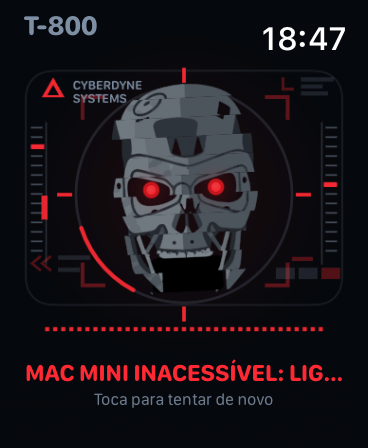
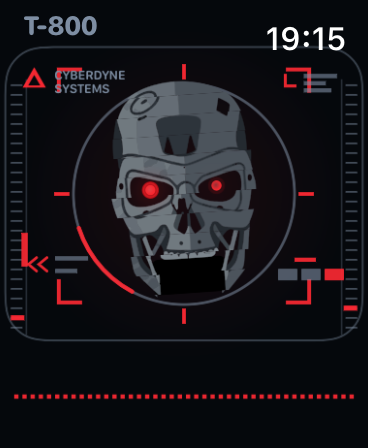
feat(watch): drop the caption and stretch the visor to the edges

diff --git a/apps/watch/WatchPilot/UI/ContentView.swift b/apps/watch/WatchPilot/UI/ContentView.swift
@@ -22,8 +22,8 @@ struct ContentView: View {
             VStack(spacing: 0) {
                 topBar
                 Spacer(minLength: 0)
-                statusBlock
             }
+            .allowsHitTesting(false)
         }
         .frame(maxWidth: .infinity, maxHeight: .infinity)
         // Full-bleed, como o visor da referência: o "T-800" partilha a linha do
@@ -86,7 +86,7 @@ struct ContentView: View {
             GeometryReader { geo in
                 AssistantAvatar(phase: controller.phase, isReduceMotion: reduceMotion)
                     .frame(width: 190, height: 231)
-                    .scaleEffect(geo.size.width / 190)
+                    .scaleEffect(max(geo.size.width / 190, geo.size.height / 231))
                     .frame(width: geo.size.width, height: geo.size.height)
                     .contentShape(Rectangle())
             }
@@ -104,99 +104,6 @@ struct ContentView: View {
         case .answering: return "Abrir a resposta completa"
         case .failed: return "Tentar de novo"
         case .idle: return "Gravar comando de voz"
-        }
-    }
-
-    // MARK: - Copy
-
-    /// A legenda do visor, por cima do scrim escuro no fim do canvas. A resposta
-    /// do hub pode crescer (scroll) sem nunca empurrar nada do sítio.
-    private var statusBlock: some View {
-        ScrollView {
-            VStack(spacing: 1) {
-                Text(controller.phase.headline)
-                    .font(.system(size: 14, weight: .bold, design: .rounded))
-                    .foregroundStyle(headlineColor)
-                    .textCase(isShortStatus ? .uppercase : nil)
-                    .multilineTextAlignment(.center)
-                    .lineLimit(isShortStatus ? 1 : 4)
-                    .minimumScaleFactor(0.85)
-                    .fixedSize(horizontal: false, vertical: true)
-
-                if let spoken = transcriptLine {
-                    Text(spoken)
-                        .font(.system(size: 8.5, design: .rounded))
-                        .foregroundStyle(Palette.muted)
-                        .multilineTextAlignment(.center)
-                        .lineLimit(2)
-                        .fixedSize(horizontal: false, vertical: true)
-                }
-
-                Text(footnote)
-                    .font(.system(size: 8.5, design: .rounded))
-                    .foregroundStyle(Palette.muted.opacity(0.85))
-                    .multilineTextAlignment(.center)
-                    .lineLimit(2)
-                    .fixedSize(horizontal: false, vertical: true)
-            }
-            .frame(maxWidth: .infinity)
-            .padding(.horizontal, 10)
-            .padding(.vertical, 1)
-        }
-        .scrollIndicators(.hidden)
-        .frame(maxHeight: isShortStatus ? 42 : 62)
-        .padding(.bottom, 4)
-        .animation(.easeInOut(duration: 0.2), value: controller.phase)
-    }
-
-    /// What the hub heard — shown as soon as it exists, so a bad transcription is
-    /// visible instead of quietly becoming a confident wrong answer.
-    private var transcriptLine: String? {
-        let transcript = controller.lastTranscript
-        guard !transcript.isEmpty else { return nil }
-        switch controller.phase {
-        case .waiting, .answering:
-            return "Ouvi: “\(transcript)”"
-        default:
-            return nil
-        }
-    }
-
-    private var footnote: String {
-        switch controller.phase {
-        case .answering:
-            if let latency = controller.lastLatencyMilliseconds {
-                let backend = controller.usedBackend ?? "hub"
-                let duration = latency >= 1000
-                    ? String(format: "%.1f s", Double(latency) / 1000)
-                    : "\(latency) ms"
-                return "\(backend) · \(duration)"
-            }
-            return "Resposta do Mac mini"
-        case .failed:
-            return controller.hasPendingTask
-                ? "O comando pode ter continuado no Mac"
-                : "Toca para tentar de novo"
-        default:
-            return controller.phase.hint
-        }
-    }
-
-    /// A resposta do hub é texto corrido; os estados curtos leem-se como o visor:
-    /// em maiúsculas, tipo terminal.
-    private var isShortStatus: Bool {
-        if case .answering = controller.phase { return false }
-        return true
-    }
-
-    private var headlineColor: Color {
-        switch controller.phase {
-        case .idle: return Palette.ink
-        case .listening: return Palette.crimson
-        case .uploading: return Palette.amber
-        case .waiting: return Palette.muted
-        case .answering: return Palette.ink
-        case .failed: return Palette.crimson
         }
     }
 

diff --git a/apps/watch/WatchPilot/UI/AssistantAvatar.swift b/apps/watch/WatchPilot/UI/AssistantAvatar.swift
@@ -188,7 +188,6 @@ enum AvatarRenderer {
             drawScanLine(in: &context, center: skullCenter, radius: ringRadius, time: time, pose: pose)
         }
         drawWaveform(in: &context, size: size, time: time, pose: pose)
-        drawScrim(in: &context, size: size)
     }
 
     // MARK: fundo e brilho
@@ -204,18 +203,6 @@ enum AvatarRenderer {
         )
     }
 
-    /// Scrim escuro na faixa do texto de estado, para a legenda ler-se sempre.
-    private static func drawScrim(in context: inout GraphicsContext, size: CGSize) {
-        context.fill(
-            Path(CGRect(x: 0, y: size.height * 0.76, width: size.width, height: size.height * 0.24)),
-            with: .linearGradient(
-                Gradient(colors: [.clear, Palette.background.opacity(0.85), Palette.background]),
-                startPoint: CGPoint(x: 0, y: size.height * 0.76),
-                endPoint: CGPoint(x: 0, y: size.height)
-            )
-        )
-    }
-
     // MARK: moldura HUD
 
     private static func drawHUDFrame(in context: inout GraphicsContext, size: CGSize, ringRadius: Double, skullCenter: CGPoint, time: TimeInterval, pose: AvatarPose, glitch: Double) {
@@ -224,34 +211,34 @@ enum AvatarRenderer {
         let flick = pose.hudGlitch && glitch > 0.72
 
         // Moldura exterior — o rectângulo arredondado do visor.
-        let frame = CGRect(x: w * 0.06, y: h * 0.15, width: w * 0.88, height: h * 0.535)
+        let frame = CGRect(x: w * 0.015, y: h * 0.105, width: w * 0.97, height: h * 0.655)
         context.stroke(
-            Path(roundedRect: frame, cornerRadius: 14),
+            Path(roundedRect: frame, cornerRadius: w * 0.105),
             with: .color(Palette.muted.opacity(flick ? 0.15 : 0.4)),
             style: StrokeStyle(lineWidth: 1)
         )
 
         // Cantos da mira (brackets vermelhos) à volta do anel.
-        let bracketRect = CGRect(x: w * 0.215, y: h * 0.21, width: w * 0.57, height: h * 0.43)
+        let bracketRect = CGRect(x: w * 0.16, y: h * 0.155, width: w * 0.68, height: h * 0.52)
         let pulse = pose.hudPulse ? 0.6 + 0.4 * (0.5 + 0.5 * sin(time * 3.1)) : 0.9
         let jx = flick ? (glitch - 0.86) * 16 : 0
         drawBrackets(in: &context, rect: bracketRect.offsetBy(dx: jx, dy: 0), arm: 11,
                      color: accent.opacity(flick ? 0.35 : pulse))
 
         // Réguas de ticks laterais + marcas de varredura.
-        drawTickColumn(in: &context, x: w * 0.075, top: h * 0.28, bottom: h * 0.58, flip: false,
+        drawTickColumn(in: &context, x: w * 0.030, top: h * 0.19, bottom: h * 0.735, flip: false,
                        time: time, accent: accent, speed: 5.5)
-        drawTickColumn(in: &context, x: w * 0.925, top: h * 0.28, bottom: h * 0.58, flip: true,
+        drawTickColumn(in: &context, x: w * 0.970, top: h * 0.19, bottom: h * 0.735, flip: true,
                        time: time, accent: accent, speed: 4.1)
 
         // Segmento vermelho fixo na régua esquerda (como no visor de referência).
         context.fill(
-            Path(CGRect(x: w * 0.075 + 5.5, y: h * 0.435, width: 3.2, height: h * 0.055)),
+            Path(CGRect(x: w * 0.030 + 5.5, y: h * 0.520, width: 3.2, height: h * 0.075)),
             with: .color(accent.opacity(0.9))
         )
 
         // Logo Cyberdyne: triângulo vermelho vazado + duas linhas de texto.
-        drawCyberdyneLogo(in: &context, origin: CGPoint(x: w * 0.105, y: h * 0.165), accent: accent)
+        drawCyberdyneLogo(in: &context, origin: CGPoint(x: w * 0.062, y: h * 0.150), accent: accent)
 
         // Glifos de dados — decoração de terminal, sem significado.
         drawGlyphs(in: &context, size: size, accent: accent, dim: flick)
@@ -482,11 +469,11 @@ enum AvatarRenderer {
     // MARK: waveform de pontos
 
     private static func drawWaveform(in context: inout GraphicsContext, size: CGSize, time: TimeInterval, pose: AvatarPose) {
-        let bars = 35
-        let left = size.width * 0.12, right = size.width * 0.88
+        let bars = 42
+        let left = size.width * 0.045, right = size.width * 0.955
         let pitch = (right - left) / Double(bars - 1)
-        let centerY = size.height * 0.745
-        let maxHalf = size.height * 0.055
+        let centerY = size.height * 0.890
+        let maxHalf = size.height * 0.090
         let dot = 2.2, step = 2.6
 
         var dots = Path()

diff --git a/docs/DESIGN.md b/docs/DESIGN.md
@@ -6,37 +6,41 @@ what it is doing in under a second, and does it ever lie to me".
 
 ## Shape
 
-The screen **is** the visor of a Cyberdyne T-800 — full-bleed, no chrome of our own:
+The screen **is** the visor of a Cyberdyne T-800 — full-bleed, no chrome of our own
+and **no text**: everything the visor has to say is carried by colour, motion and
+sound.
 
 ```
 ┌────────────────────────┐
 │ T-800           10:09  │   model on the system clock's row
-│ ┌────────────────────┐ │
-│ │ ▲ CYBERDYNE SYSTEMS│ │   targeting frame
-│ │ ┌ ⌜      ⌐ ┐ ┤ticks│ │   corner brackets · ruler ticks + scanner
-│ │ │  ( T-800 ) │     │ │   reticle ring + the skull (overflows it)
-│ │ └ ⌞      ⌟ ┘ ┤ticks│ │   red crosshairs · data glyphs
-│ └────────────────────┘ │
-│ ░░▒▒████▒▒░░▒▒██▒▒░░     │   dot-matrix waveform (the mic / the voice)
-│ COMO POSSO AJUDAR?     │   headline
-│ hint · provenance      │   tiny footnote over a dark scrim
+│╭──────────────────────╮│   targeting frame, edge to edge
+││▲ CYBERDYNE   ⌐ ┤ticks││   corner brackets · ruler ticks + scanner
+│││  ( T-800 )      │   ││   reticle ring + the skull (overflows it)
+││╰ ⌞      ⌟ ┘ ┤ticks   ││   red crosshairs · data glyphs
+│╰──────────────────────╯│
+│ ░░▒▒████▒▒░░▒▒██████▒▒  │   dot-matrix waveform (the mic / the voice)
 └────────────────────────┘
 ```
 
 The HUD itself is the only button: a tap performs the state's action (record →
-send → cancel → open the answer). The copy scrolls inside its bottom slice over a
-scrim drawn by the canvas, so a long answer never pushes anything off the screen.
+send → cancel). The visor is drawn in a 190×231 pt space that is scaled to **cover**
+the screen (`max(w/190, h/231)`), so there is no letterboxing margin on any watch.
 
-## State → colour → copy
+There used to be a caption under the waveform (headline, transcript, provenance).
+It is gone by design: the answer arrives as **audio**, and the visor answers with
+its eyes and its jaw. The full text is still reachable — tapping while the T-800
+answers opens the answer sheet — but nothing is printed on the visor.
 
-| State | Pose | Headline | Tap does |
+## State → colour → face
+
+| State | Pose | Face | Tap does |
 | --- | --- | --- | --- |
-| idle | ember eyes, slow head scan, calm waveform | "COMO POSSO AJUDAR?" | starts recording |
-| listening | wide bright eyes, brackets pulse, waveform is the mic power | "A OUVIR…" | sends |
-| uploading | gaze up, scanline sweeps the ring | "A ENVIAR AO MAC MINI…" | cancels |
-| waiting | searching scan, progress arc on the ring | "62% · A PENSAR COM O MIMO 2.6 PRO…" | cancels |
-| answering | jaw talks, waveform speaks, eyes at full glow | the answer itself | opens the full answer |
-| failed | dimmed chrome, right eye flickers out, HUD glitches | the error, in words | retries / records again |
+| idle | ember eyes, slow head scan, calm waveform | calm, waiting | starts recording |
+| listening | wide bright eyes, brackets pulse, waveform is the mic power | dilated, leaning in | sends |
+| uploading | gaze up, scanline sweeps the ring | looking up | cancels |
+| waiting | searching scan, progress arc on the ring | scanning for a target | cancels |
+| answering | jaw talks, waveform speaks, eyes at full glow | talking, full glow | opens the read sheet |
+| failed | dimmed chrome, right eye flickers out, HUD glitches | torn, jaw slack | retries / records again |
 
 ## Principles applied (and where the audit pushed back)
 
@@ -47,8 +51,8 @@ A full audit against 195 research-backed principles is in
 were fixed:
 
 1. **Critical — the answer had no route to its full text.** It was being shrunk to
-   ~9.4 pt and ellipsised. Now the summary band scrolls and *Ver tudo* opens the
-   complete answer with its transcript and timings.
+   ~9.4 pt and ellipsised. The visor now speaks; the full text lives behind a tap
+   while the T-800 answers, with its transcript and timings.
 2. **Retry did not retry.** "Tentar de novo" called `resetSession()`, throwing the task
    away. Now, if a task is still pending, the button says *Ver estado* and re-polls;
    only a command with nothing pending starts a new recording.
@@ -130,8 +134,5 @@ Rendered from the simulator with `scripts/screenshot-states.sh`:
 | ![idle](design/screenshots/01-idle.png) | ![listening](design/screenshots/02-listening.png) | ![thinking](design/screenshots/03-thinking.png) |
 | ![answer](design/screenshots/04-answer.png) | ![error](design/screenshots/05-error.png) | ![hub](design/screenshots/06-live-hub.png) |
 
-`07-real-progress.png` é diferente das restantes: o app foi lançado com
-`-WPAttachTask <id>` e está a seguir uma tarefa **real** no hub (o texto "Ouvi: …"
-é a transcrição verdadeira e os 45 % são o estado verdadeiro da tarefa). As imagens
-01–05 usam `-WPDemoPhase <estado>` para congelar o orbe num estado; a 06 é a prova de
-ligação por TOTP dentro do watchOS.
+Todas as imagens usam `-WPDemoPhase <estado>` para congelar o visor num estado;
+a 06 é a prova de ligação ao hub por TOTP dentro do watchOS.
